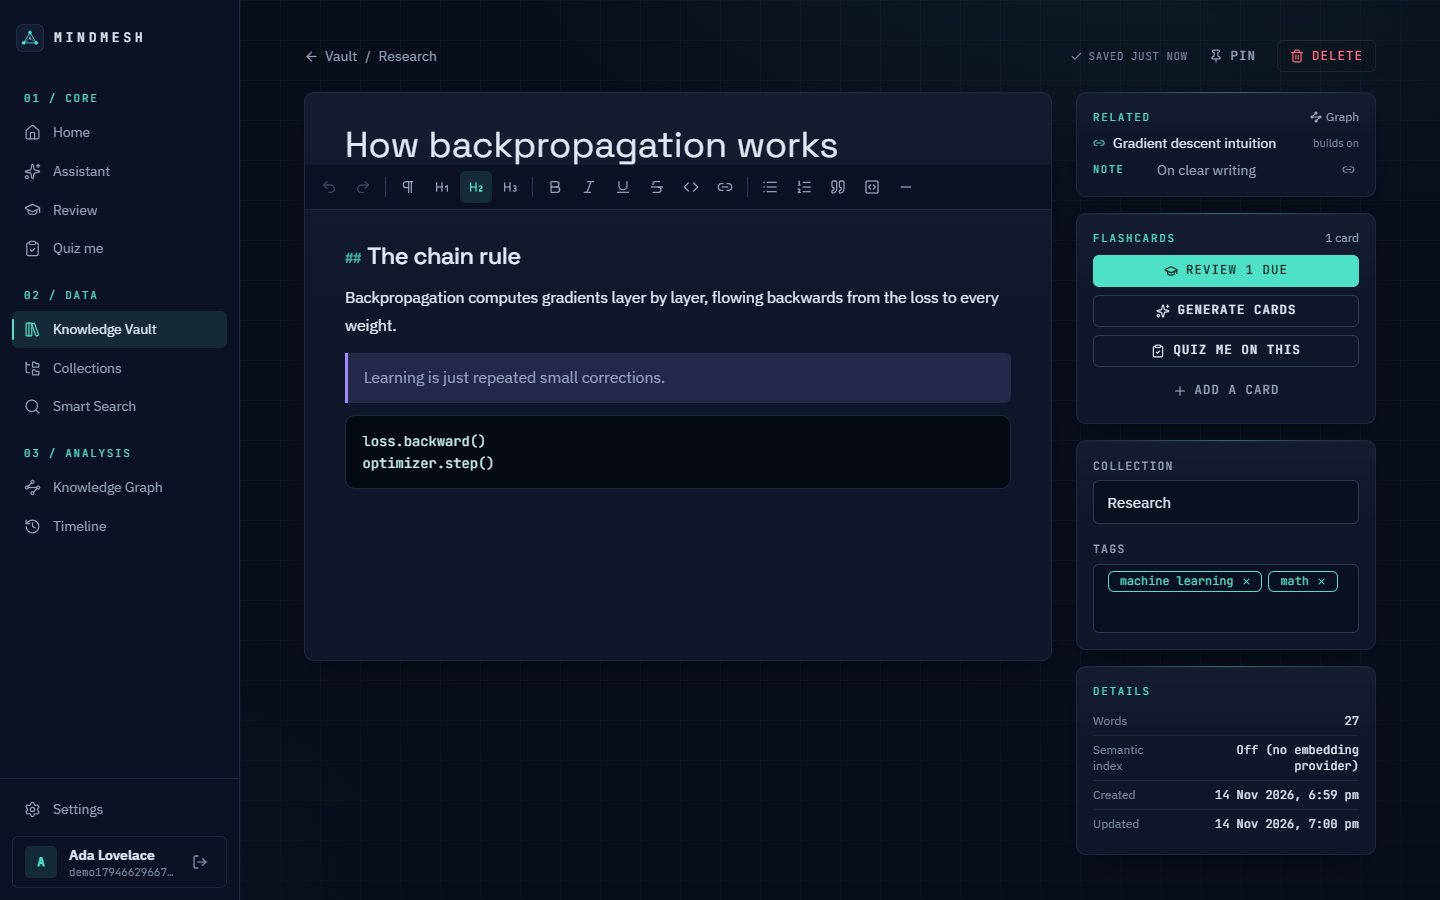
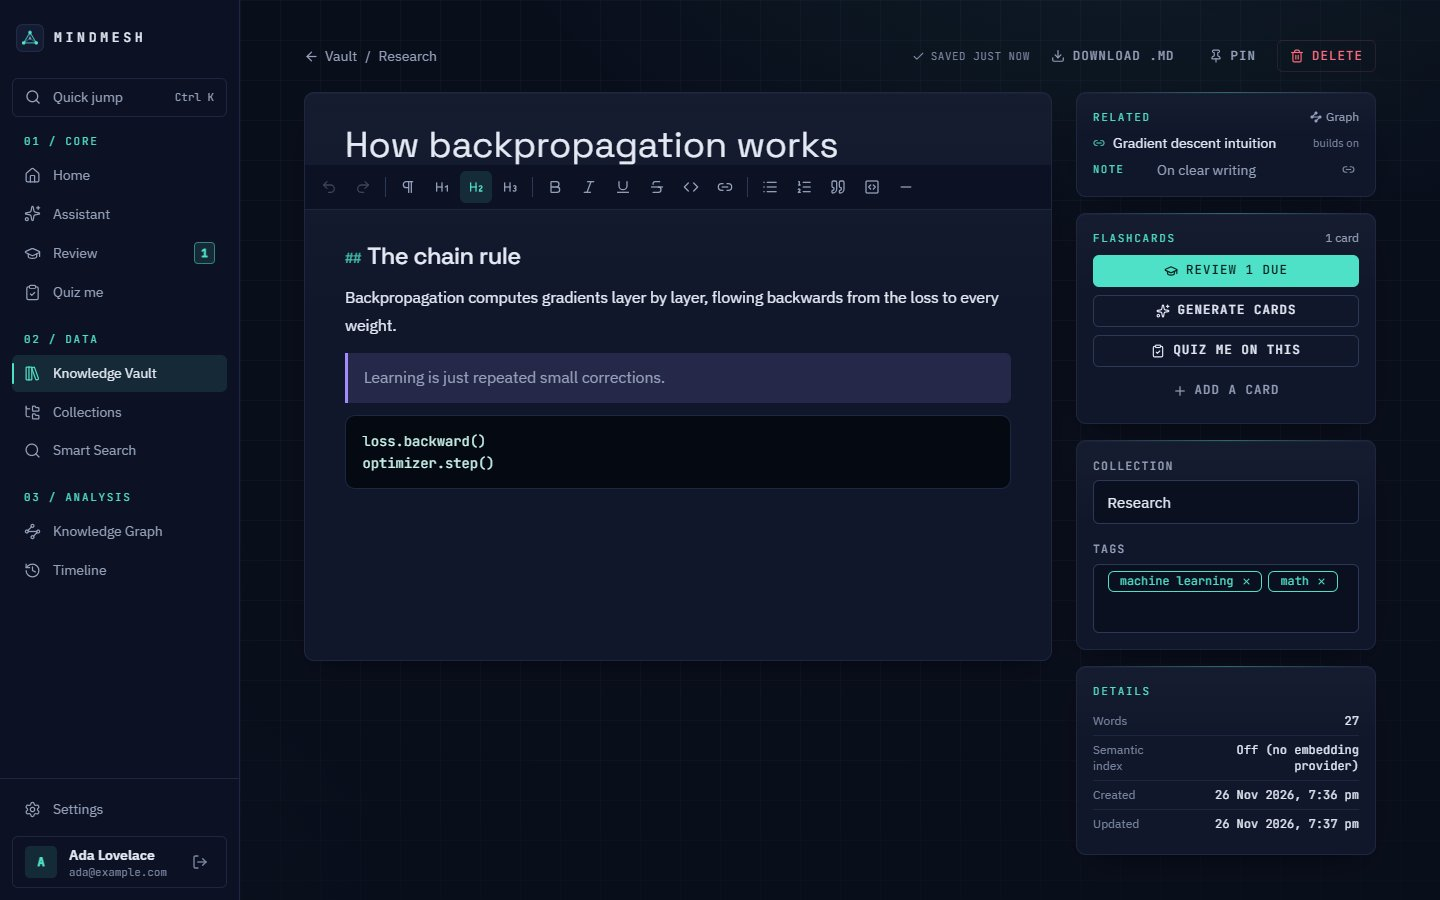
Refresh README screenshots and add assistant, bulk actions and quick jump

diff --git a/README.md b/README.md
@@ -18,6 +18,9 @@ The same app in its three themes (click an image for full size). These show samp
 | **Knowledge Vault** | <a href="docs/screenshots/library-vault.jpg"><img src="docs/screenshots/library-vault.jpg" alt="library theme: vault" width="100%"></a> | <a href="docs/screenshots/studio-vault.jpg"><img src="docs/screenshots/studio-vault.jpg" alt="studio theme: vault" width="100%"></a> | <a href="docs/screenshots/lab-vault.jpg"><img src="docs/screenshots/lab-vault.jpg" alt="lab theme: vault" width="100%"></a> |
 | **Note editor** | <a href="docs/screenshots/library-note.jpg"><img src="docs/screenshots/library-note.jpg" alt="library theme: note" width="100%"></a> | <a href="docs/screenshots/studio-note.jpg"><img src="docs/screenshots/studio-note.jpg" alt="studio theme: note" width="100%"></a> | <a href="docs/screenshots/lab-note.jpg"><img src="docs/screenshots/lab-note.jpg" alt="lab theme: note" width="100%"></a> |
 | **Knowledge Graph** | <a href="docs/screenshots/library-graph.jpg"><img src="docs/screenshots/library-graph.jpg" alt="library theme: graph" width="100%"></a> | <a href="docs/screenshots/studio-graph.jpg"><img src="docs/screenshots/studio-graph.jpg" alt="studio theme: graph" width="100%"></a> | <a href="docs/screenshots/lab-graph.jpg"><img src="docs/screenshots/lab-graph.jpg" alt="lab theme: graph" width="100%"></a> |
+| **Assistant** (three modes, pinned chats) | <a href="docs/screenshots/library-assistant.jpg"><img src="docs/screenshots/library-assistant.jpg" alt="library theme: assistant" width="100%"></a> | <a href="docs/screenshots/studio-assistant.jpg"><img src="docs/screenshots/studio-assistant.jpg" alt="studio theme: assistant" width="100%"></a> | <a href="docs/screenshots/lab-assistant.jpg"><img src="docs/screenshots/lab-assistant.jpg" alt="lab theme: assistant" width="100%"></a> |
+| **Bulk actions** | <a href="docs/screenshots/library-select.jpg"><img src="docs/screenshots/library-select.jpg" alt="library theme: bulk actions" width="100%"></a> | <a href="docs/screenshots/studio-select.jpg"><img src="docs/screenshots/studio-select.jpg" alt="studio theme: bulk actions" width="100%"></a> | <a href="docs/screenshots/lab-select.jpg"><img src="docs/screenshots/lab-select.jpg" alt="lab theme: bulk actions" width="100%"></a> |
+| **Quick jump** (Ctrl+K) | <a href="docs/screenshots/library-jump.jpg"><img src="docs/screenshots/library-jump.jpg" alt="library theme: quick jump" width="100%"></a> | <a href="docs/screenshots/studio-jump.jpg"><img src="docs/screenshots/studio-jump.jpg" alt="studio theme: quick jump" width="100%"></a> | <a href="docs/screenshots/lab-jump.jpg"><img src="docs/screenshots/lab-jump.jpg" alt="lab theme: quick jump" width="100%"></a> |
 
 Each theme has its own typography, surfaces, navigation and component shapes, not just different colours: catalogue-style cards and a bound-ledger sidebar in The Library, colour-blocked rounded modules in The Studio, and dark instrument panels with monospaced readouts in The Lab.
 
